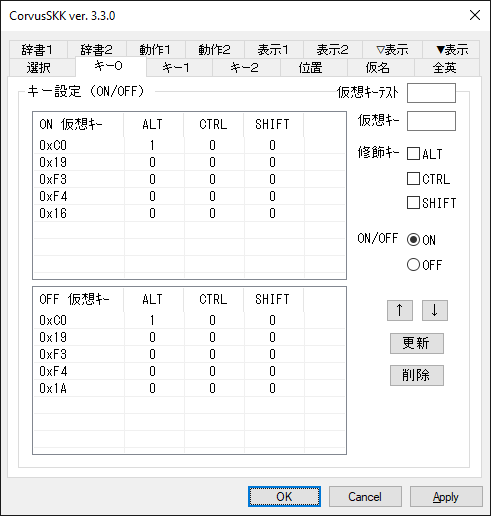
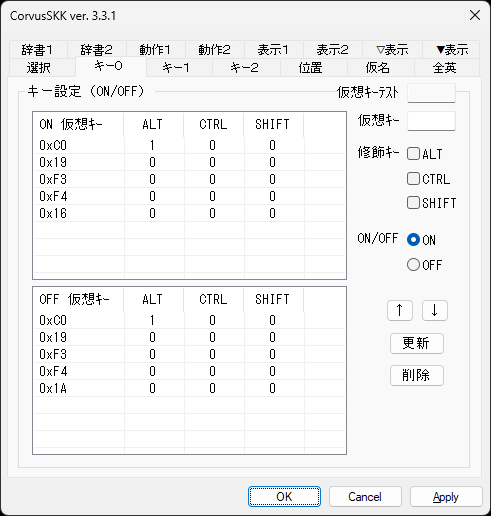
3.3.1
* std::regex をキャッシュ化して動作を改善しました。

* Lua 5.4.8 にアップデートしました。

* WiX Toolset v6.0.2 にアップデートしました。

* ARM 版 Windows において ARM32 アプリを非対応としました。

diff --git a/common/version.h b/common/version.h
@@ -7,10 +7,10 @@
 #define TEXTSERVICE_DESC	TEXTSERVICE_NAME L"_DEBUG"
 #endif
 #define TEXTSERVICE_DIR		L"IMCRVSKK"
-#define TEXTSERVICE_VER		L"3.3.0"
+#define TEXTSERVICE_VER		L"3.3.1"
 
 //for resource
 #define RC_AUTHOR			"nathancorvussolis"
 #define RC_PRODUCT			"CorvusSKK"
-#define RC_VERSION			"3.3.0"
-#define RC_VERSION_D		3,3,0,0
+#define RC_VERSION			"3.3.1"
+#define RC_VERSION_D		3,3,1,0

diff --git a/README.md b/README.md
@@ -1,5 +1,5 @@
 
-# CorvusSKK ver. 3.3.0
+# CorvusSKK ver. 3.3.1
 
 ![](installer/resource-md/logo.png) Windowsで動作するSKK風のIMEです。
 
@@ -890,28 +890,25 @@ ASCII, JIS X 0201, JIS X 0213に変換できない文字が含まれていた場
 
 ### 開発環境
 
-Visual Studio Community 2022 17.13.6
+Visual Studio Community 2022 17.14.15
+
+* .NET desktop development
 
 * Desktop development with C++
 
 * Indivisual components
     * Compilers, build tools, and runtimes
         * MSVC v143 - VS 2022 C++ x64/x86 build tools (Latest)
-        * MSVC v143 - VS 2022 C++ ARM build tools (Latest)
         * MSVC v143 - VS 2022 C++ ARM64/ARM64EC build tools (Latest)
     * SDKs, libraries, and frameworks
         * C++ ATL for latest v143 build tools (x86 & x64)
-        * C++ ATL for latest v143 build tools (ARM)
         * C++ ATL for latest v143 build tools (ARM64/ARM64EC)
-        * Windows 11 SDK (10.0.26100.0)
 
-WiX Toolset v6.0.0
-
-* 要 .NET SDK 6 以降
+WiX Toolset v6.0.2
 
 * ビルド用バッチファイル内の dotnet build コマンドによって暗黙的に復元
 
-pandoc 3.6.4
+pandoc 3.8
 
 
 ### ビルド手順
@@ -953,7 +950,7 @@ pandoc 3.6.4
 
 ---
 
-Copyright (C) 2011-2024 SASAKI Nobuyuki
+Copyright (C) 2011-2025 SASAKI Nobuyuki
 
 nathancorvussolis@gmail.com
 
